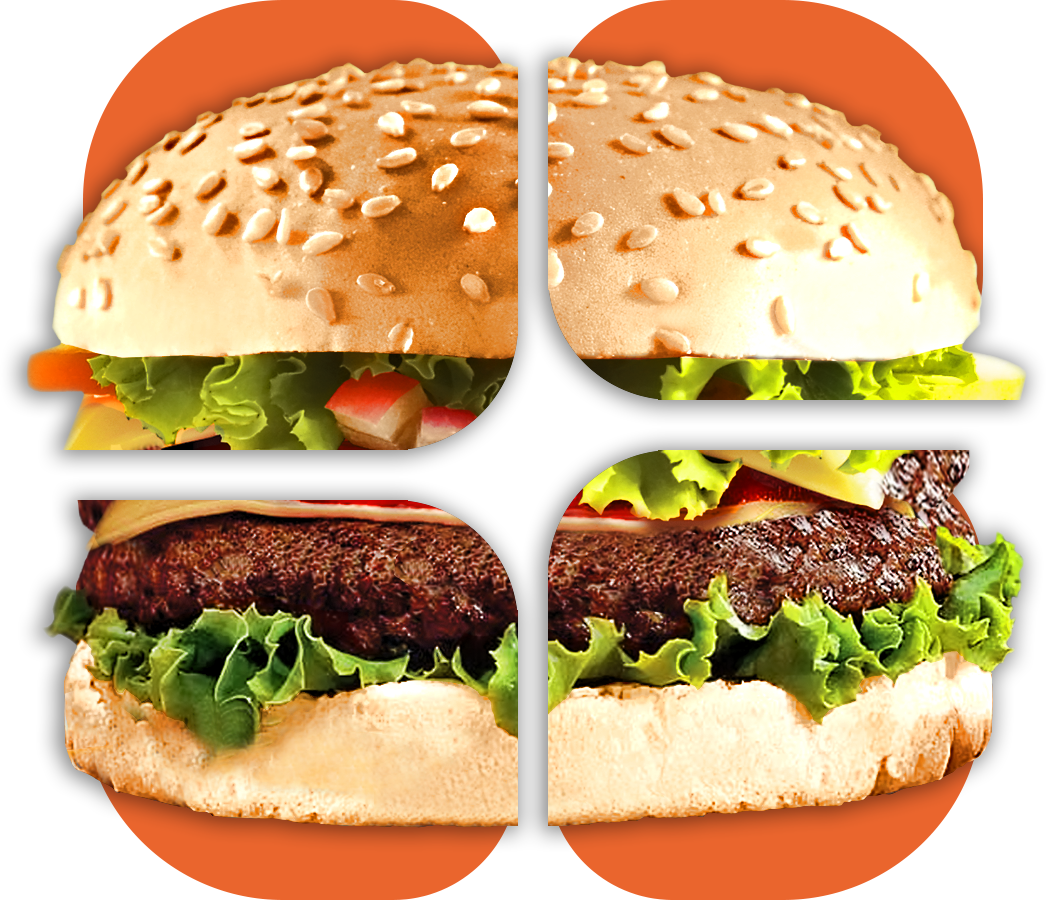
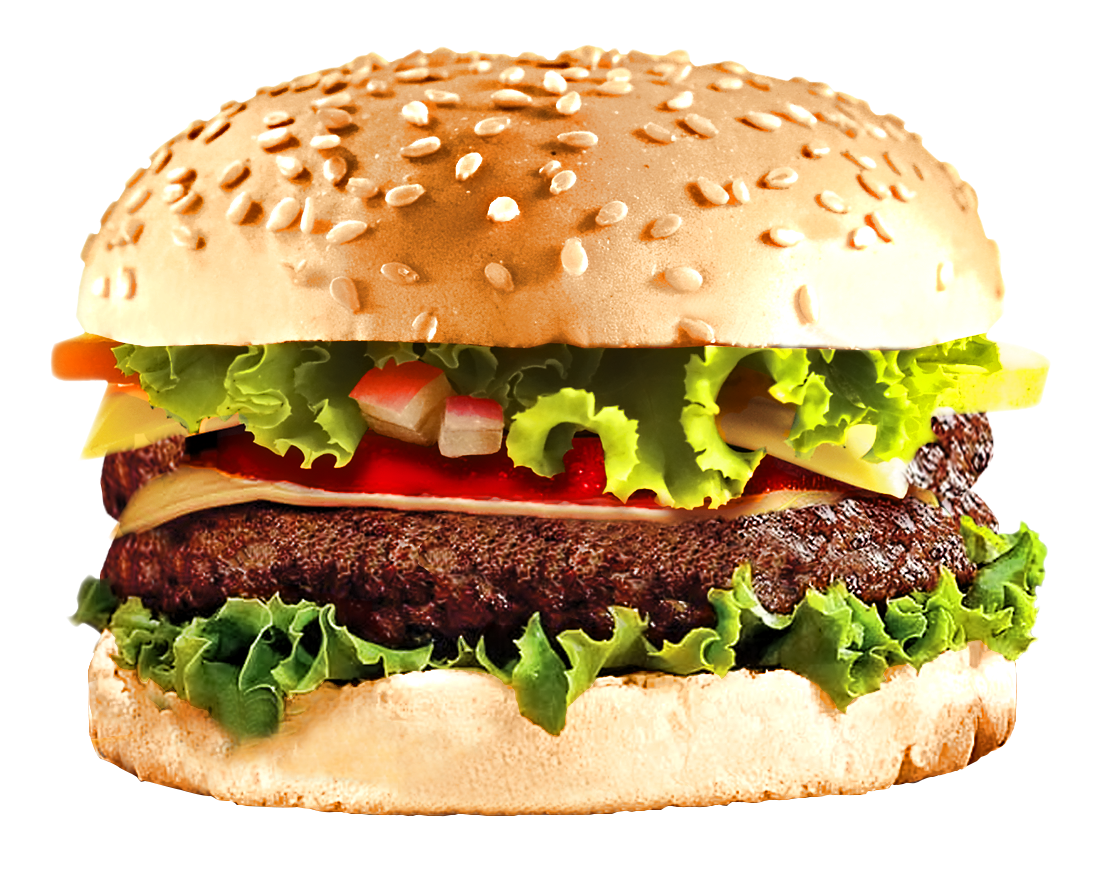
changed image name

diff --git a/src/components/thumbline/thumbline.tsx b/src/components/thumbline/thumbline.tsx
@@ -2,7 +2,7 @@ import { FC, ReactElement } from "react";
 import { Component } from "../../interfaces/react_element";
 import styles from "../../scss/components/thumbline.module.scss";
 import { MenuButton } from "./menu-button";
-import hamImage from "../../assets/hamburguer.png";
+import hamImage from "../../assets/thumb_hamburguer.png";
 
 export const Thumbline: FC<Component> = ({}): ReactElement => {
     return (
